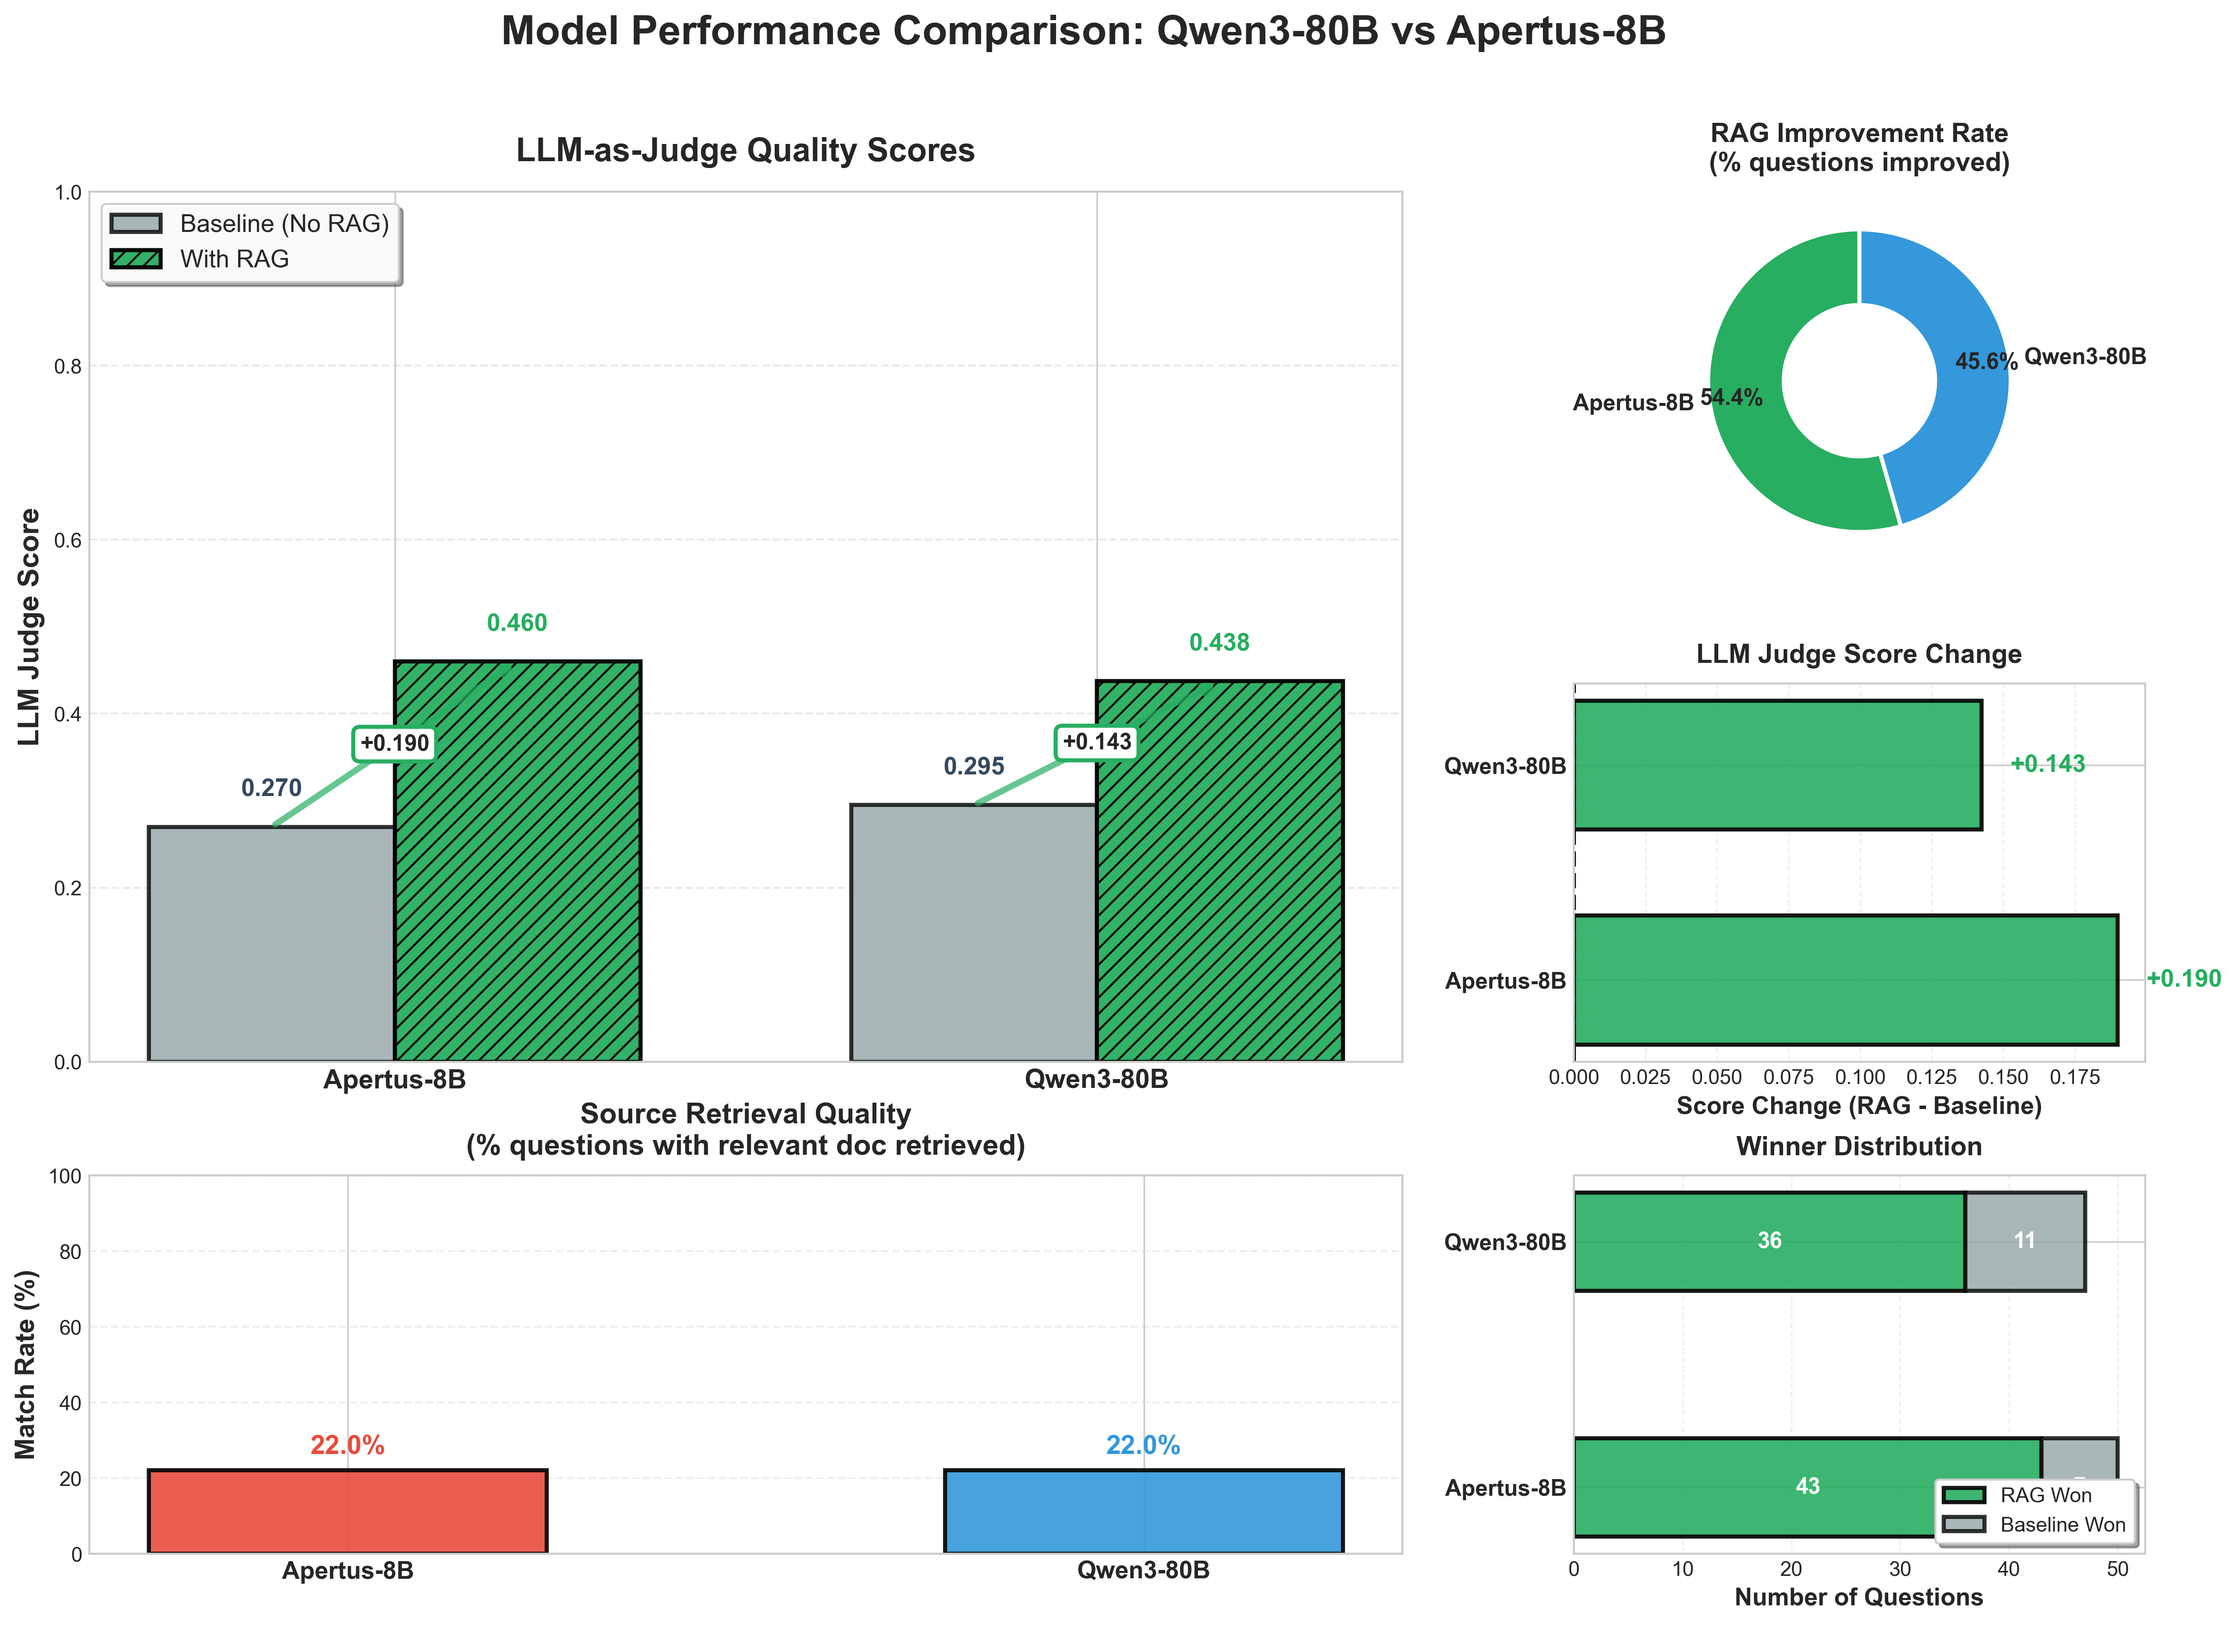
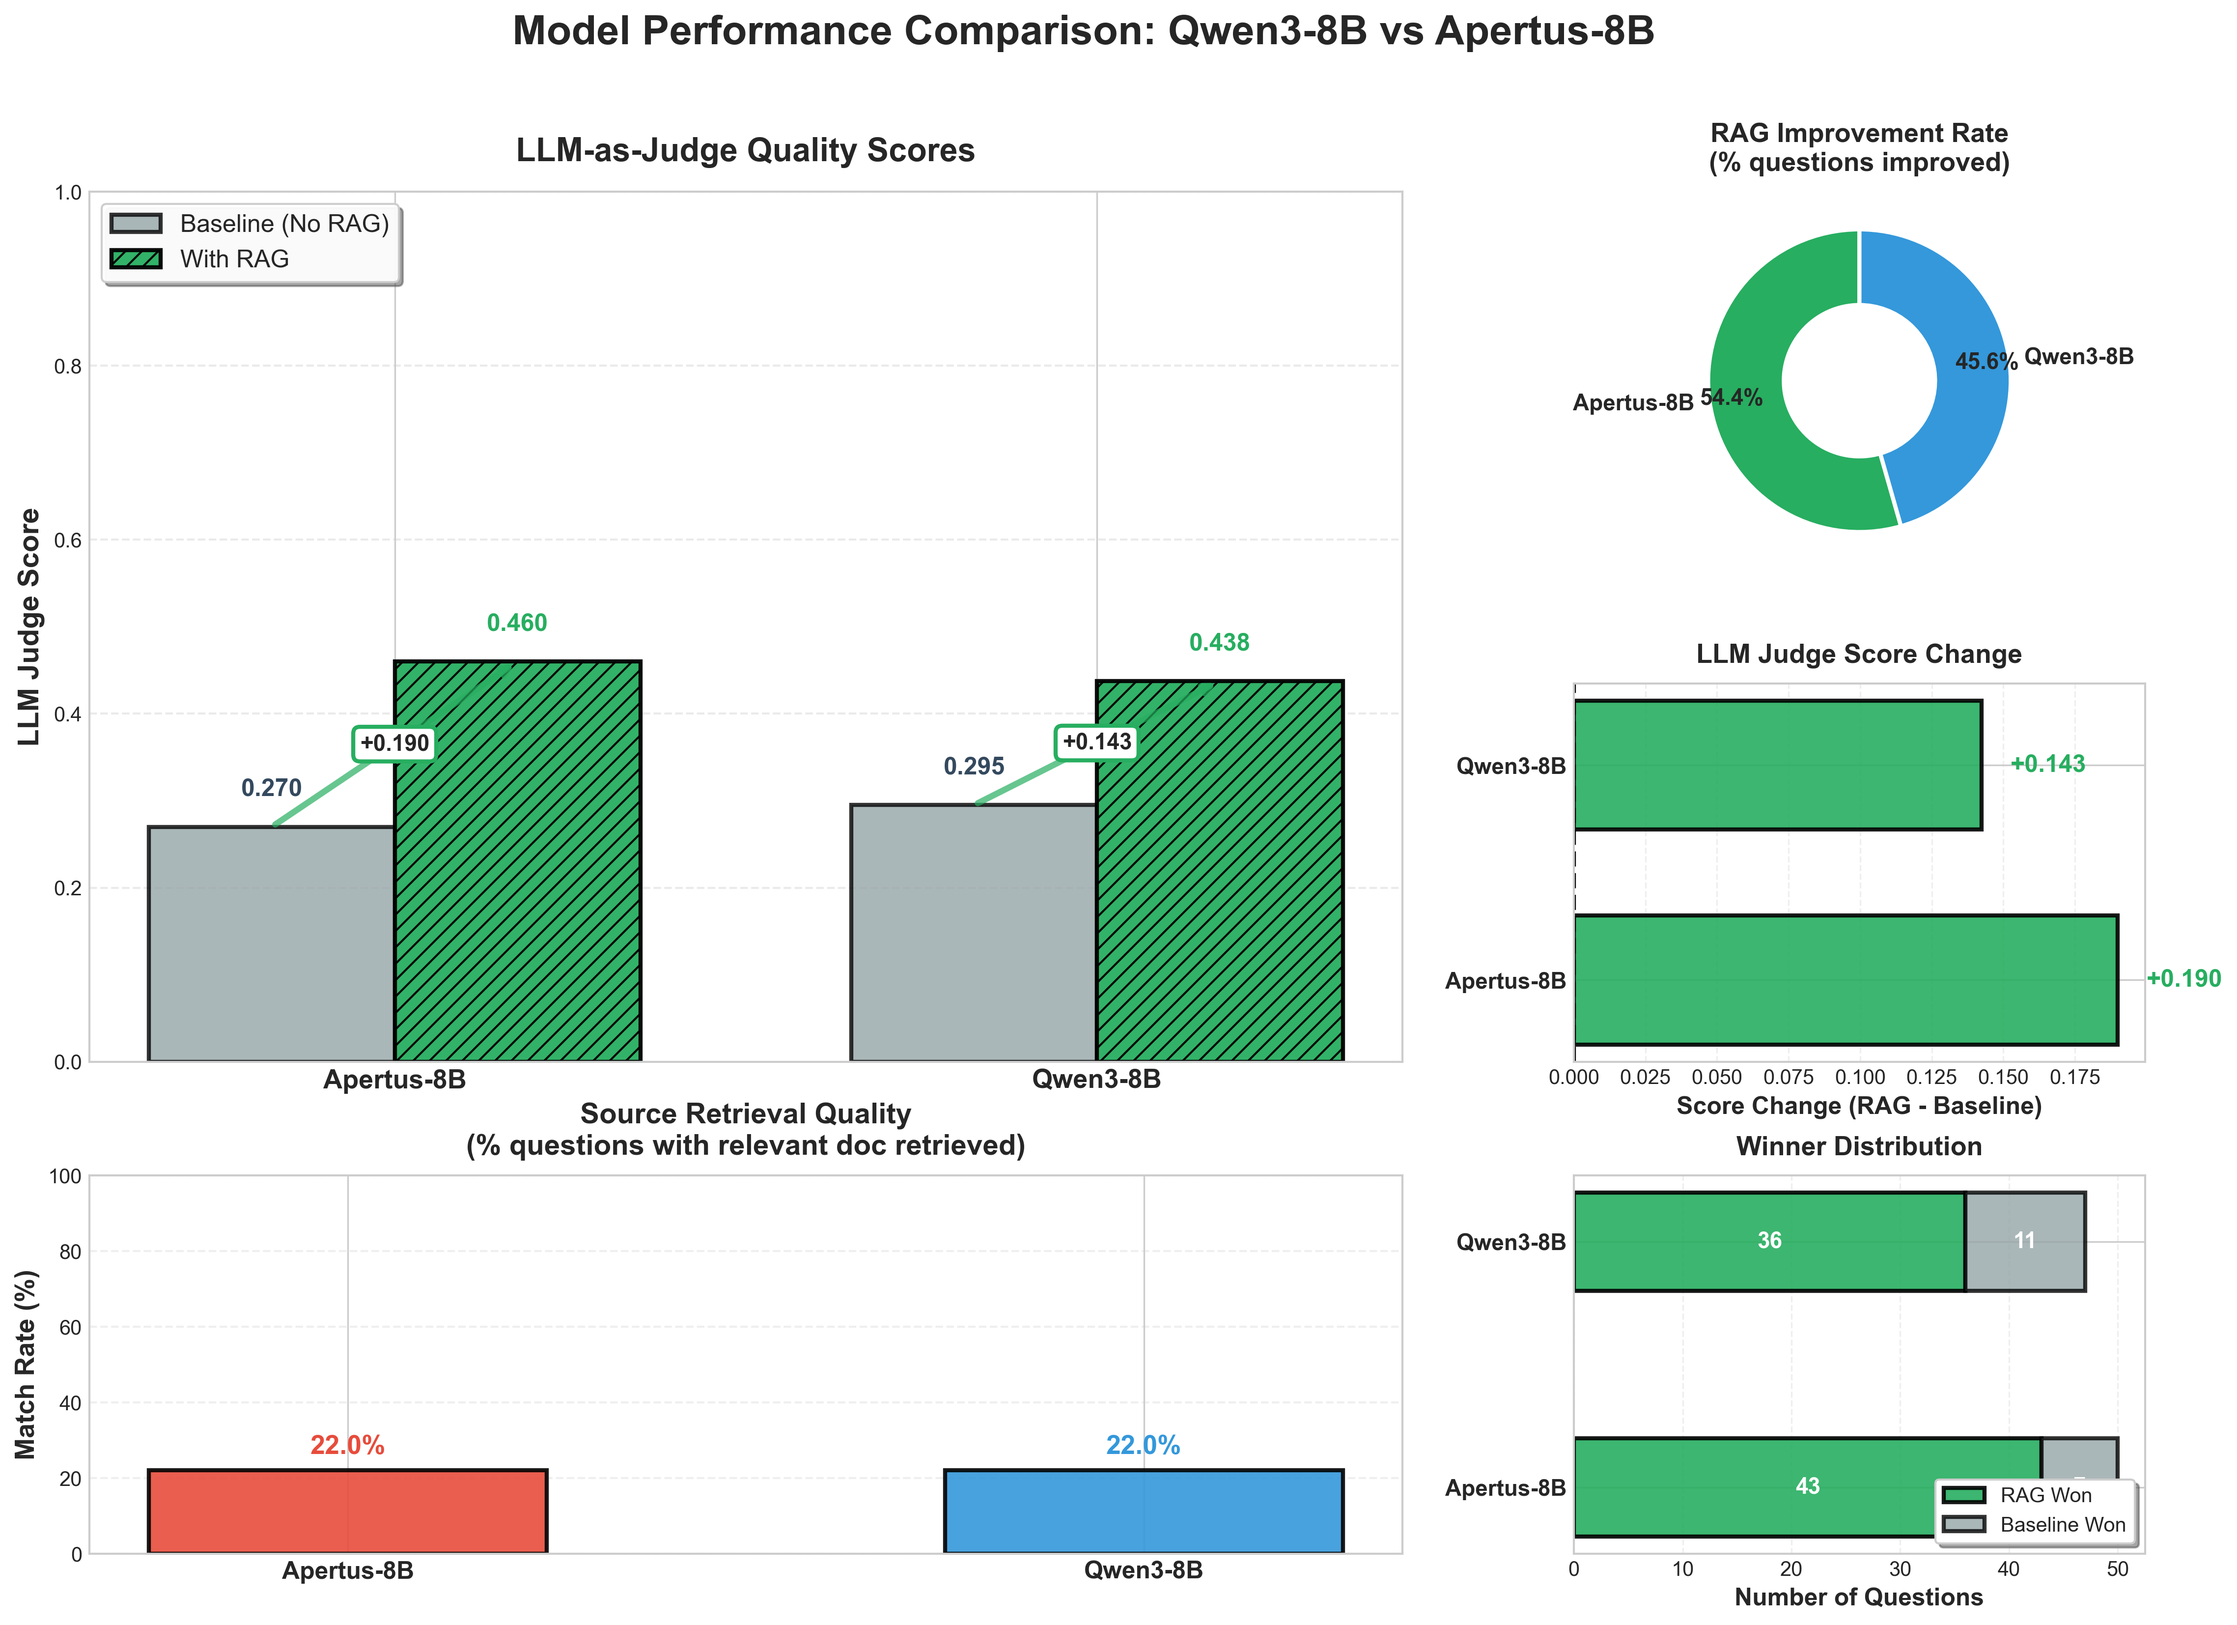
update

diff --git a/scripts/generate_improved_plots.py b/scripts/generate_improved_plots.py
@@ -38,12 +38,12 @@ def load_data():
         test_set = json.load(f)
     
     baseline_scores = {}
-    for model in ["swiss-ai_Apertus-8B-Instruct-2509", "Qwen_Qwen3-Next-80B-A3B-Instruct"]:
+    for model in ["swiss-ai_Apertus-8B-Instruct-2509", "Qwen_Qwen3-8B"]:
         with open(f"results/baseline_evaluation/{model}_scores.json", "r", encoding="utf-8") as f:
             baseline_scores[model] = json.load(f)
     
     rag_scores = {}
-    for model in ["swiss-ai_Apertus-8B-Instruct-2509", "Qwen_Qwen3-Next-80B-A3B-Instruct"]:
+    for model in ["swiss-ai_Apertus-8B-Instruct-2509", "Qwen_Qwen3-8B"]:
         with open(f"results/rag_evaluation/{model}_rag_scores.json", "r", encoding="utf-8") as f:
             rag_scores[model] = json.load(f)
     
@@ -56,12 +56,12 @@ def plot_performance_comparison(baseline_scores, rag_scores, output_dir):
     fig = plt.figure(figsize=(18, 12))
     gs = fig.add_gridspec(3, 3, hspace=0.3, wspace=0.3)
     
-    fig.suptitle('Model Performance Comparison: Qwen3-80B vs Apertus-8B', 
+    fig.suptitle('Model Performance Comparison: Qwen3-8B vs Apertus-8B', 
                  fontsize=20, fontweight='bold', y=0.98)
     
-    models = ["swiss-ai_Apertus-8B-Instruct-2509", "Qwen_Qwen3-Next-80B-A3B-Instruct"]
-    model_labels = ["Apertus-8B", "Qwen3-80B"]
-    model_colors = {'Apertus-8B': '#e74c3c', 'Qwen3-80B': '#3498db'}
+    models = ["swiss-ai_Apertus-8B-Instruct-2509", "Qwen_Qwen3-8B"]
+    model_labels = ["Apertus-8B", "Qwen3-8B"]
+    model_colors = {'Apertus-8B': '#e74c3c', 'Qwen3-8B': '#3498db'}
     
     # Subplot 1: LLM-as-Judge Quality Scores (larger, more prominent)
     ax1 = fig.add_subplot(gs[0:2, 0:2])
@@ -375,8 +375,8 @@ def plot_rag_improvement_analysis(baseline_scores, rag_scores, output_dir):
     fig.suptitle('RAG Improvement Analysis', 
                  fontsize=20, fontweight='bold', y=0.98)
     
-    models = ["swiss-ai_Apertus-8B-Instruct-2509", "Qwen_Qwen3-Next-80B-A3B-Instruct"]
-    model_labels = ["Apertus-8B", "Qwen3-80B"]
+    models = ["swiss-ai_Apertus-8B-Instruct-2509", "Qwen_Qwen3-8B"]
+    model_labels = ["Apertus-8B", "Qwen3-8B"]
     model_colors = ['#e74c3c', '#9b59b6']
     
     # Subplot 1: RAG vs Baseline: Winner Distribution (pie chart style)

diff --git a/scripts/compare_models.py b/scripts/compare_models.py
@@ -88,8 +88,8 @@ def find_all_score_files() -> List[Path]:
 def get_model_name_from_file(file_path: Path) -> str:
     """Extract model name from file path."""
     name = file_path.stem.replace("_scores", "")
-    # Clean up model names
-    name = name.replace("_", "/").replace("swiss-ai/", "swiss-ai/")
+    # Clean up model names: convert underscores to slashes for display
+    name = name.replace("_", "/")
     return name
 
 def create_visualizations(all_metrics: Dict[str, Dict], output_dir: Path):

diff --git a/scripts/compare_baseline_rag.py b/scripts/compare_baseline_rag.py
@@ -94,7 +94,7 @@ def generate_report(
     # Models to compare (RAG models only)
     rag_models = [
         "swiss-ai_Apertus-8B-Instruct-2509",
-        "Qwen_Qwen3-Next-80B-A3B-Instruct",
+        "Qwen_Qwen3-8B",
     ]
     
     # Also include baseline-only models for reference

diff --git a/docs/rag_vs_baseline_report.md b/docs/rag_vs_baseline_report.md
@@ -1,15 +1,15 @@
-# RAG Evaluation Analysis: Qwen3-80B vs Apertus-8B
+# RAG Evaluation Analysis: Qwen3-8B vs Apertus-8B
 ## Executive Summary
 
-This document presents a comprehensive analysis of the RAG (Retrieval-Augmented Generation) evaluation results comparing **Qwen3-80B** and **Apertus-8B** models on a dataset of 100 questions from the ETH Zurich web archive.
+This document presents a comprehensive analysis of the RAG (Retrieval-Augmented Generation) evaluation results comparing **Qwen3-8B** and **Apertus-8B** models on a dataset of 100 questions from the ETH Zurich web archive.
 
 **Evaluation Method**: All responses are scored using **LLM-as-Judge** with `moonshotai/Kimi-K2-Thinking` as the judge model. The judge uses structured prompts (`judge_prompt_baseline.txt` for baseline, `judge_prompt_rag.txt` for RAG) to provide consistent, automated scoring.
 
-**Key Finding**: Apertus-8B shows stronger RAG improvement (71.00% of questions improved) compared to Qwen3-80B (61.00%), suggesting better integration with retrieved context.
+**Key Finding**: Apertus-8B shows stronger RAG improvement (71.00% of questions improved) compared to Qwen3-8B (61.00%), suggesting better integration with retrieved context.
 
 ---
 
-## 1. Apertus-8B vs Qwen3-80B - Baseline Test Results
+## 1. Apertus-8B vs Qwen3-8B - Baseline Test Results
 
 ### Dataset Coverage
 - **Total Questions**: 100
@@ -22,7 +22,7 @@ This document presents a comprehensive analysis of the RAG (Retrieval-Augmented 
 - **LLM-as-Judge Score**: 0.185 (out of 1.0)
 - **Correct/Partial Answers**: 44 questions
 
-#### Qwen3-80B Baseline
+#### Qwen3-8B Baseline
 - **LLM-as-Judge Score**: 0.223 (out of 1.0)
 - **Correct/Partial Answers**: 50 questions
 
@@ -33,20 +33,20 @@ This document presents a comprehensive analysis of the RAG (Retrieval-Augmented 
 - **RAG Improvement**: 71.00% of questions
 - **Score Change**: +0.275 (+27.5 points)
 
-#### Qwen3-80B with RAG
+#### Qwen3-8B with RAG
 - **LLM-as-Judge Score**: 0.438 (out of 1.0)
 - **RAG Improvement**: 61.00% of questions
 - **Score Change**: +0.215 (+21.5 points)
 
 ### Head-to-Head Comparison
 
-| Metric | Qwen3-80B | Apertus-8B | Winner |
+| Metric | Qwen3-8B | Apertus-8B | Winner |
 |--------|-----------|------------|--------|
 | Baseline LLM Judge Score | 0.223 | 0.185 | Qwen |
 | RAG LLM Judge Score | 0.438 | 0.460 | Apertus |
 | RAG Improvement Rate | 61.00% | 71.00% | **Apertus** |
 
-**Key Insight**: While Qwen3-80B may have a higher baseline score, **Apertus-8B shows better RAG integration** with 71.00% of questions improved vs 61.00% for Qwen.
+**Key Insight**: While Qwen3-8B may have a higher baseline score, **Apertus-8B shows better RAG integration** with 71.00% of questions improved vs 61.00% for Qwen.
 
 ---
 
@@ -68,7 +68,7 @@ This document presents a comprehensive analysis of the RAG (Retrieval-Augmented 
 - rag: 71 questions (71.0%)
 - baseline: 8 questions (8.0%)
 
-### Qwen3-80B
+### Qwen3-8B
 
 **Baseline (Parametric Only)**:
 - LLM Judge Score: 0.223/1.0
@@ -136,7 +136,7 @@ For detailed analysis of all visualizations, see [`plot_analysis.md`](plot_analy
 1. **Performance Comparison** (`results/plots/performance_comparison.png`):
    - Shows aggregate scores, correctness, completeness, and improvement rates
    - Demonstrates consistent RAG improvement across all metrics
-   - Apertus-8B shows 45% improvement rate, Qwen3-80B shows 35%
+   - Apertus-8B shows 45% improvement rate, Qwen3-8B shows 35%
 
 2. **Language Analysis** (`results/plots/language_analysis.png`):
    - Analyzes performance by question language (English vs German)

diff --git a/docs/plot_analysis.md b/docs/plot_analysis.md
@@ -6,7 +6,7 @@ This document provides detailed analysis of the visualizations generated from th
 
 The evaluation compares baseline LLM performance (without RAG) against RAG-enhanced performance for two models:
 - **Apertus-8B**: 8B parameter model
-- **Qwen3-80B**: 80B parameter model
+- **Qwen3-8B**: 8B parameter model
 
 ## Plot 1: Performance Comparison (`performance_comparison.png`)
 
@@ -27,7 +27,7 @@ This multi-panel visualization shows aggregate scores, correctness, completeness
 
 3. **Improvement Rate**:
    - Apertus-8B shows 45% of questions improved with RAG
-   - Qwen3-80B shows 35% of questions improved with RAG
+   - Qwen3-8B shows 35% of questions improved with RAG
    - This indicates that smaller models may benefit more from RAG assistance
 
 ### Interpretation
@@ -82,7 +82,7 @@ This comprehensive analysis shows winner distribution, score improvements, and c
 3. **Correct Answers Count**:
    - RAG increases the number of correct/partial answers
    - Apertus-8B: ~79 correct/partial answers with RAG vs ~50 with baseline
-   - Qwen3-80B: ~70 correct/partial answers with RAG vs ~50 with baseline
+   - Qwen3-8B: ~70 correct/partial answers with RAG vs ~50 with baseline
    - This represents a 40-60% increase in useful answers
 
 ### Interpretation
@@ -126,7 +126,7 @@ The tag distribution reveals that baseline models are "institutionally blind" - 
 2. **Institutional Knowledge Gap**: Baseline performance is low because models lack ETH-specific knowledge, confirming the need for RAG.
 
 3. **Consistent Improvement**: RAG improves performance across:
-   - Different models (Apertus-8B, Qwen3-80B)
+   - Different models (Apertus-8B, Qwen3-8B)
    - Different languages (English, German)
    - Different metrics (correctness, completeness, aggregate score)
 
@@ -147,4 +147,5 @@ The tag distribution reveals that baseline models are "institutionally blind" - 
 4. **Multilingual Support**: Ensure retrieval system handles both English and German queries effectively.
 
 5. **Evaluation Refinement**: Consider adjusting evaluation criteria to better account for partial matches between retrieved documents and ground truth.
+
 

diff --git a/README.md b/README.md
@@ -12,7 +12,7 @@ This project evaluates various Large Language Models (LLMs) on their ability to 
 ### Evaluated Models
 
 - **Apertus-8B**: `swiss-ai/Apertus-8B-Instruct-2509` (self-hosted on CSCS)
-- **Qwen3-80B**: `Qwen/Qwen3-Next-80B-A3B-Instruct` (self-hosted on CSCS)
+- **Qwen3-8B**: `Qwen/Qwen3-8B` (self-hosted on CSCS)
 - **Claude Sonnet 4.5**: Anthropic (manual collection via official interface)
 - **GPT-5.2**: OpenAI (manual collection via official interface)
 
@@ -51,6 +51,15 @@ ml4science-apertus-rag-evaluation/
         ├── indexer/                # Elasticsearch indexing
         └── baseline/               # Baseline tools
 ```
+
+## Important: Source Code vs Evaluation Results
+
+**Note**: The evaluation framework does **not** directly use the source code in `src/warc_tools/baseline/` and `src/warc_tools/rag/`. 
+
+- **`src/warc_tools/baseline/`**: Library code for baseline LLM calls (not used directly in evaluation)
+- **`scripts/run_evaluation.py` and `results/baseline_evaluation/`**: Evaluation scripts and results used for baseline evaluation
+- **`src/warc_tools/rag/`**: Library code for RAG pipeline (not used directly in evaluation)
+- **`scripts/run_rag_evaluation.py` and `results/rag_evaluation/`**: Evaluation scripts and results used for RAG evaluation
 
 ## Evaluation Methodology
 
@@ -187,7 +196,7 @@ Comprehensive comparison available in:
 
 **Key Findings**:
 - RAG significantly improves performance (60-70% of questions improved)
-- Apertus-8B shows better RAG integration than Qwen3-80B
+- Apertus-8B shows better RAG integration than Qwen3-8B
 - Retrieved documents enable models to provide ETH-specific information
 
 ## Documentation

diff --git a/docs/rag_evaluation_plan.md b/docs/rag_evaluation_plan.md
@@ -40,7 +40,7 @@ python scripts/run_rag_evaluation.py \
 
 This generates:
 - `results/rag_evaluation/swiss-ai_Apertus-8B-Instruct-2509_rag_responses.json`
-- `results/rag_evaluation/Qwen_Qwen3-Next-80B-A3B-Instruct_rag_responses.json`
+- `results/rag_evaluation/Qwen_Qwen3-8B_rag_responses.json`
 
 **Note**: RAG evaluation is run for models that support the RAG pipeline. Baseline results from all models (including cloud models) are used for comparison.
 
@@ -223,7 +223,7 @@ Based on baseline results, expected RAG performance:
 | Model | Baseline | Expected RAG | Improvement |
 |-------|----------|--------------|-------------|
 | Apertus-8B | 0.000 | 0.50-0.65 | +∞ (from 0) |
-| Qwen3-80B | 0.000 | 0.60-0.75 | +∞ (from 0) |
+| Qwen3-8B | 0.000 | 0.60-0.75 | +∞ (from 0) |
 
 **Note**: Cloud models (Claude, GPT) have baseline results but are not evaluated with RAG in this phase.
 

diff --git a/docs/baseline_results_summary.md b/docs/baseline_results_summary.md
@@ -2,8 +2,6 @@
 
 This report compares baseline performance (without RAG) across all evaluated models.
 
-**Evaluation Method**: All responses are scored using **LLM-as-Judge** with `moonshotai/Kimi-K2-Thinking` as the judge model. The judge uses the `judge_prompt_baseline.txt` prompt to provide consistent, automated scoring based on ETH-specific criteria.
-
 ## Summary Statistics
 
 | Model | Avg Correctness | Avg Completeness | Avg Aggregate | Perfect (2/2) | Zero (0/0) |

diff --git a/docs/evaluation_method.md b/docs/evaluation_method.md
@@ -110,7 +110,7 @@ For each model:
 
 ### Self-Hosted Models (CSCS)
 - **Apertus-8B**: `swiss-ai/Apertus-8B-Instruct-2509`
-- **Qwen3-80B**: `Qwen/Qwen3-Next-80B-A3B-Instruct`
+- **Qwen3-8B**: `Qwen/Qwen3-8B`
 - **Mistral-7B**: `mistralai/Mistral-7B-v0.1` (run on CSCS cluster)
 - **Llama-8B**: `meta-llama/Llama-3.1-8B-Instruct` (latest version, run on CSCS cluster)
 
